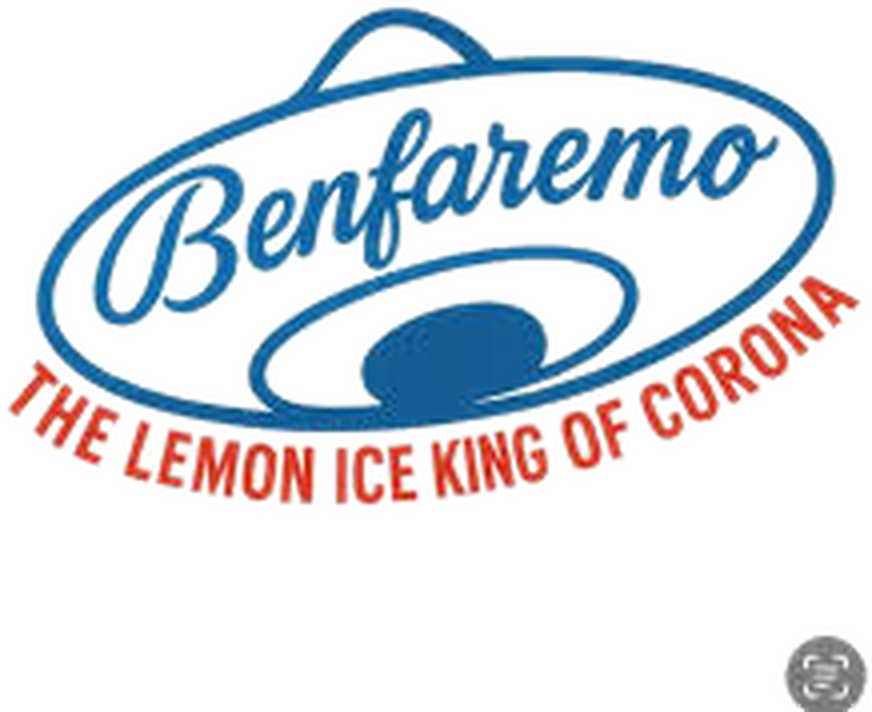
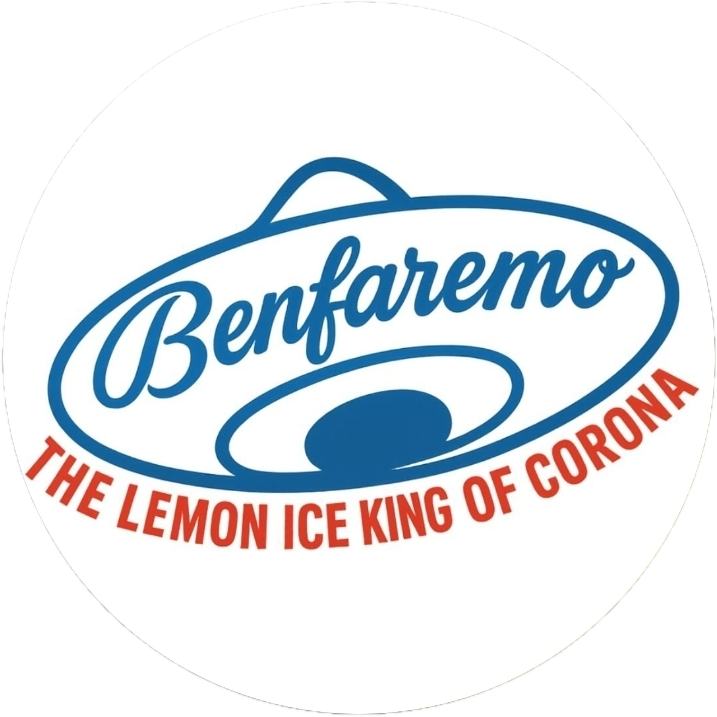
Benfaremo white bg version, circular badge styling; Torro size tweak

diff --git a/index.html b/index.html
@@ -403,7 +403,7 @@ footer{background:#040404;padding:48px 40px;text-align:center;border-top:2px sol
 <div class="sponsors-section">
   <div class="sponsors-label">Proud Sponsors of the Queens Boro Bash 2026</div>
   <div class="sponsor-logo-row featured-row" style="margin-bottom:40px">
-    <img src="images/sponsors/torro.png"           alt="Torro Skateboards"   class="sponsor-logo-img featured">
+    <img src="images/sponsors/torro.png"           alt="Torro Skateboards"   class="sponsor-logo-img featured" style="height:80px">
     <img src="images/sponsors/ny-state-of-mind.png" alt="NY State of Mind"  class="sponsor-logo-img featured square" style="height:130px;width:130px">
     <img src="images/sponsors/bones.png"            alt="Bones Bearings"    class="sponsor-logo-img featured square">
     <img src="images/sponsors/substance.png"        alt="Substance Skatepark" class="sponsor-logo-img featured" style="height:130px">
@@ -416,7 +416,7 @@ footer{background:#040404;padding:48px 40px;text-align:center;border-top:2px sol
     <img src="images/sponsors/fuccs.png"          alt="FUCCS Sunglasses"  class="sponsor-logo-img featured" style="max-width:160px">
     <img src="images/sponsors/travrocone.png"     alt="Travrocone"        class="sponsor-logo-img featured">
     <img src="images/sponsors/opus.png"           alt="Opus Footwear"     class="sponsor-logo-img featured" style="height:90px">
-    <img src="images/sponsors/benfaremo.png"      alt="Benfaremo Lemon Ice" class="sponsor-logo-img featured">
+    <img src="images/sponsors/benfaremo.png"      alt="Benfaremo Lemon Ice" class="sponsor-logo-img featured" style="background:white;border-radius:50%;padding:6px">
   </div>
   <div class="sponsors-label" style="font-size:16px;letter-spacing:4px;color:rgba(245,240,232,.75);margin-bottom:24px;font-family:'Barlow Condensed',sans-serif;text-transform:uppercase;font-weight:700">Community Partners</div>
   <div class="sponsor-logo-row">
